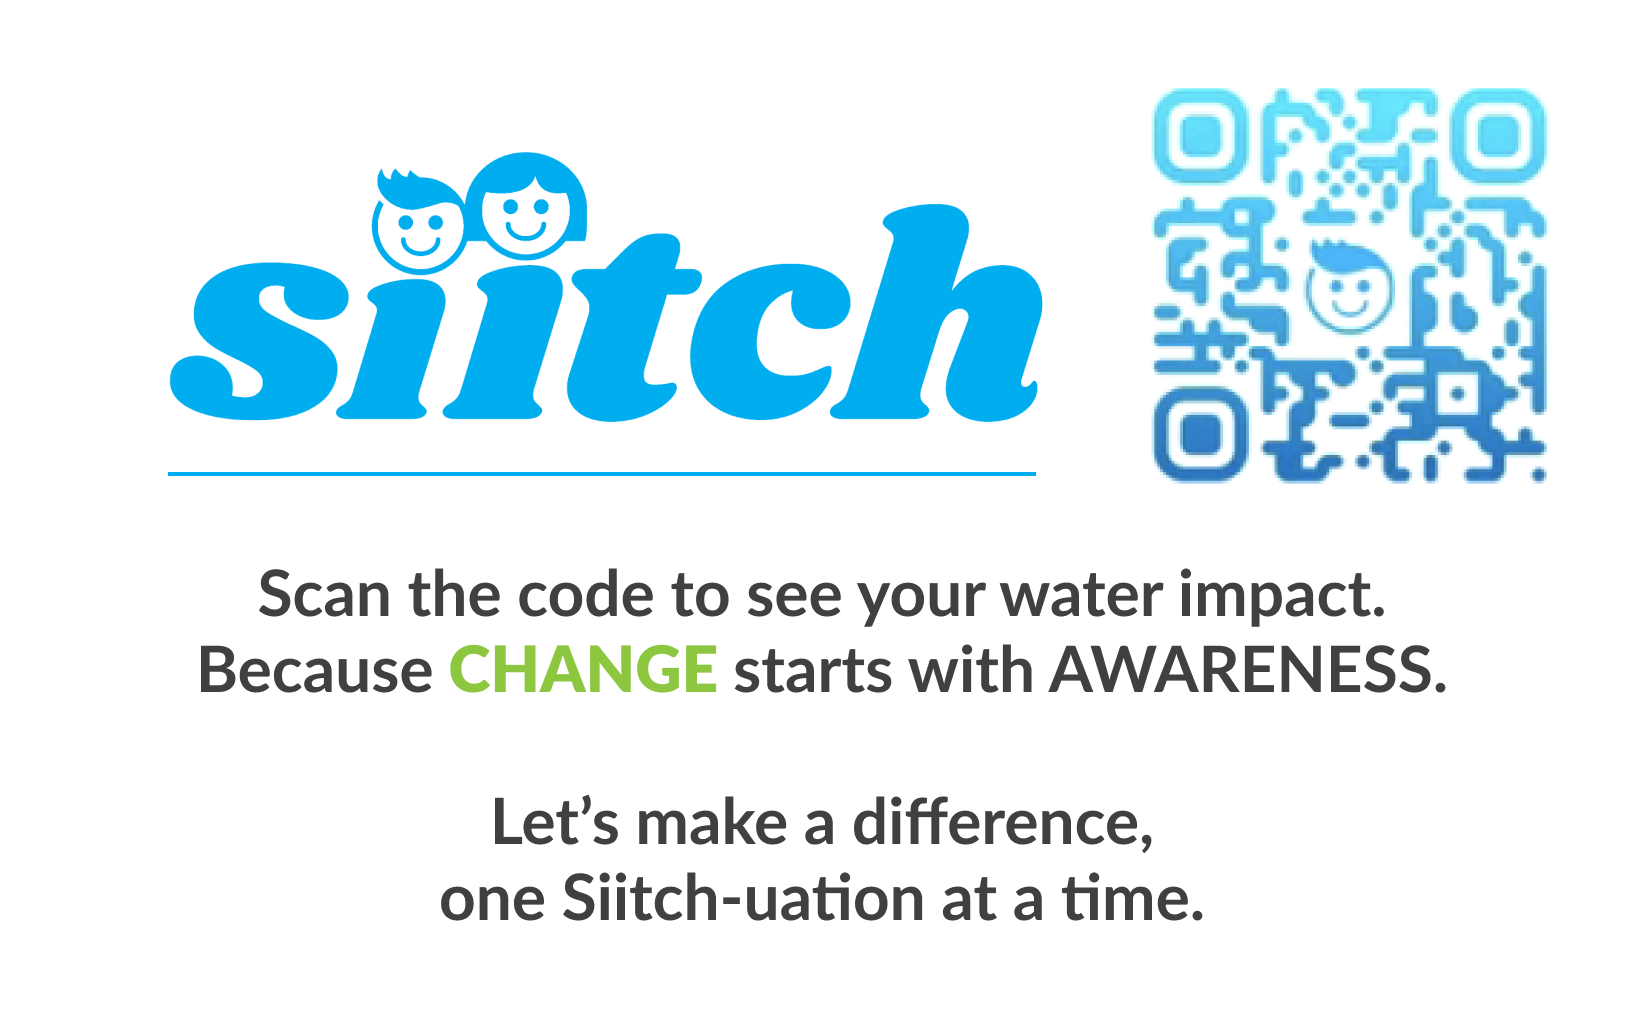
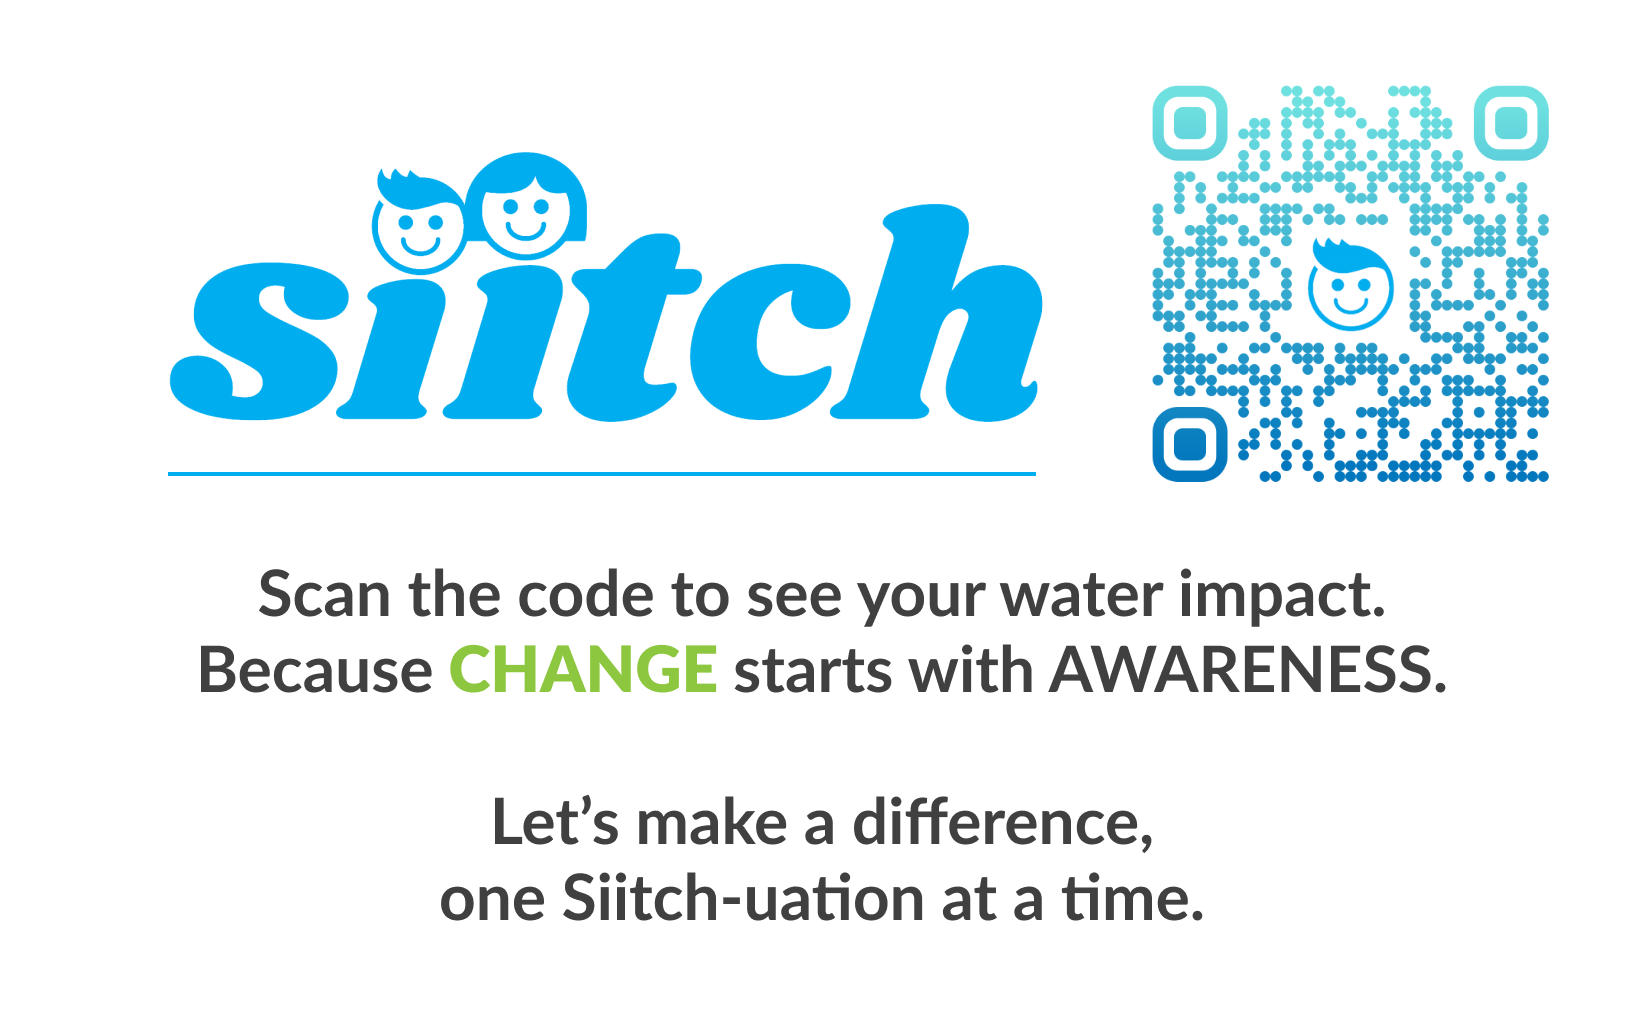
Public link

Changed region(s): [[0.6825, 0.0621, 0.9617, 0.4966]]

diff --git a/Menu/Screens.js b/Menu/Screens.js
@@ -96,7 +96,7 @@ export const MenuMain = ({ navigation }) => {
         }}
           onPress={()=>{
             Share.share({
-              message: "This will be the public link"
+              message: "https://testflight.apple.com/join/0HGzm3Xo"
             })
           }}>
           <Text style={{fontSize: 26, fontWeight: '600', color: 'white'}}>SHARE</Text>
